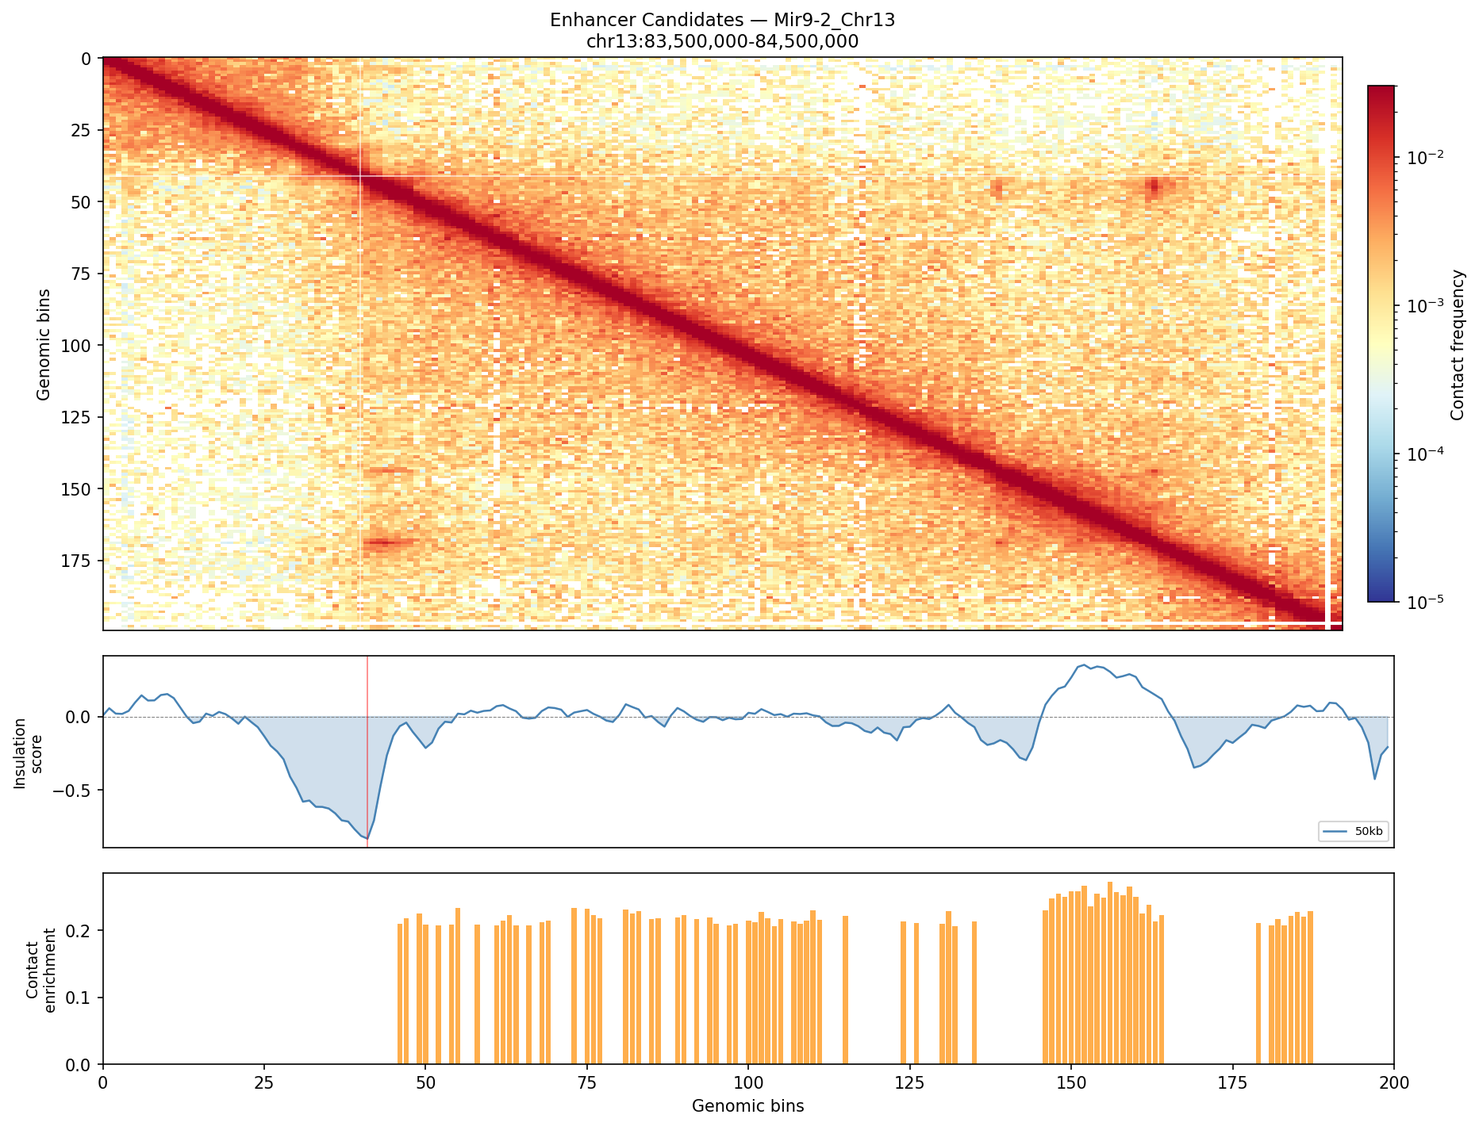
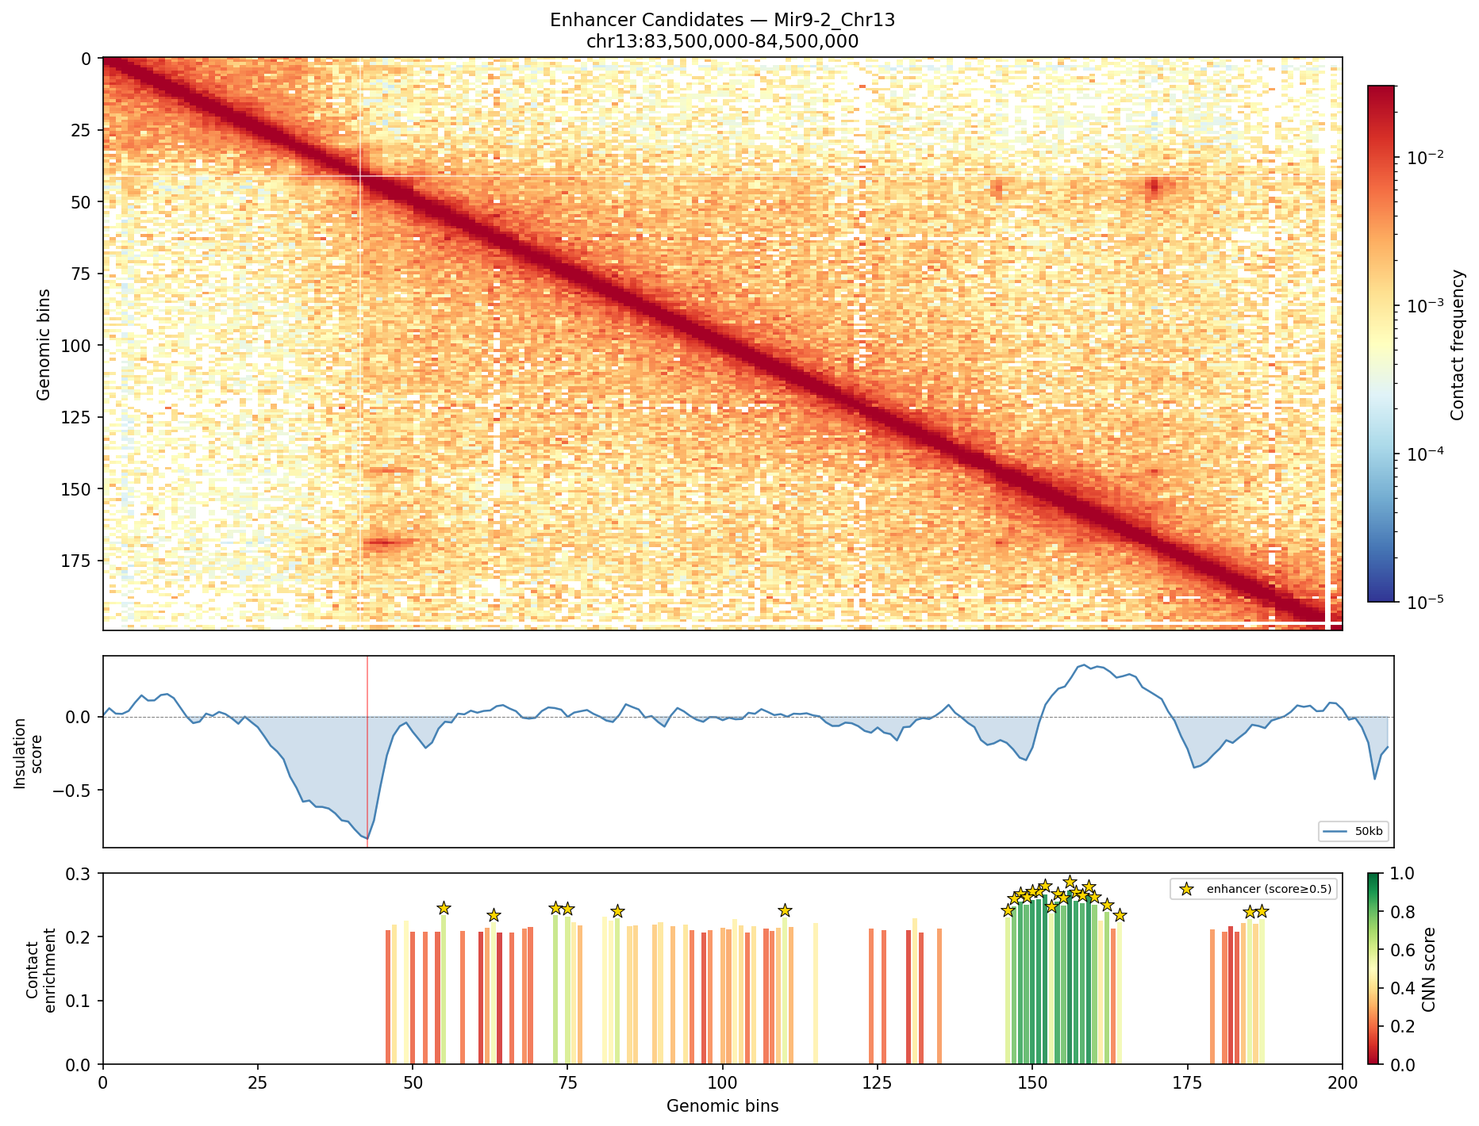
Add CNN-scored enhancer figures and training script
- train_enhancers.py: AlphaGenome ATAC query → contact score fallback → dilated
  CNN trained on 224 candidates (3 genomic windows); loss 0.056→0.004 / 30 epochs;
  model saved to data/processed/enhancer_cnn.pt
- Updated Sox11_Chr12_enhancers.png and Mir9-2_Chr13_enhancers.png: bars now
  coloured by CNN score (RdYlGn), gold ★ stars mark called enhancers (score≥0.5)
- index.html: rewrote enhancer section to reflect CNN-scored results; added
  two-stage pipeline description, proxy-label caveat, and key CNN findings
  (Sox11 left-TAD clustering, Mir9-2 right-cluster convergent signal)

Changed region(s): [[0.2489, 0.7746, 0.9646, 0.9915], [0.0311, 0.8056, 0.0622, 0.8366]]

diff --git a/index.html b/index.html
@@ -787,45 +787,51 @@
             <h2 class="section-title">Enhancer Candidate Identification <span class="badge badge-new">NEW</span></h2>
             <p style="color:#555; margin-bottom:10px; line-height:1.7;">
                 The first step toward Kelvin's synthetic enhancer design goal: identifying <em>where</em> real enhancers are
-                in the genome before designing synthetic versions. This pipeline uses 3D genome structure (Micro-C contact
-                enrichment, TAD membership, and boundary exclusion) to nominate candidate enhancer bins from the existing data.
-                Sequence-based CNN scoring will be added once a reference FASTA and ATAC-seq labels are available.
+                in the genome before designing synthetic versions. This two-layer pipeline combines 3D genome structure
+                (Micro-C contact enrichment, TAD membership, boundary exclusion) with a sequence-level dilated CNN
+                to score each candidate's 500 bp sequence for predicted regulatory activity. Both layers are now running.
             </p>
             <div style="background:#eaf4fb; border-radius:8px; padding:14px 18px; margin-bottom:18px; font-size:0.9em; line-height:1.75;">
-                <strong>How candidates are called (contact-only mode):</strong><br>
+                <strong>How candidates are called (two-stage pipeline):</strong><br>
+                <strong>Stage 1 — Structural nomination (Hi-C):</strong><br>
                 1. &nbsp;<strong>TAD membership</strong> — only bins inside a called TAD are considered (inter-TAD regions excluded).<br>
                 2. &nbsp;<strong>Boundary exclusion</strong> — bins within 10 kb of any strong boundary are removed (those are likely insulators/CTCF sites, not enhancers).<br>
-                3. &nbsp;<strong>Contact enrichment filter</strong> — each bin's summed contact to ±50 kb neighbors (excluding ±1 diagonal) is computed; only above-median bins are retained.
+                3. &nbsp;<strong>Contact enrichment filter</strong> — each bin's summed contact to ±50 kb neighbors is computed; only above-median bins are retained.<br>
+                <strong>Stage 2 — Sequence scoring (CNN):</strong><br>
+                4. &nbsp;<strong>One-hot encoding</strong> — the 500 bp window centred on each candidate bin is extracted from mm10.fa and encoded as a (4 × 500) matrix.<br>
+                5. &nbsp;<strong>Dilated CNN</strong> — three Conv1d layers (dilation 1→2→4) capture TF motif grammar at multiple scales; global average pooling + sigmoid → score in [0, 1].<br>
+                6. &nbsp;<strong>Training labels</strong> — the model was trained on 224 candidate bins (Sox11 2 Mb + Mir9-2 1 Mb) using normalized contact enrichment as proxy activity labels, with loss converging from 0.056 → 0.004 over 30 epochs.
             </div>
             <div style="background:#e8f5e9; border-left:4px solid #43a047; border-radius:4px; padding:14px 18px; margin-bottom:18px; font-size:0.9em; line-height:1.75;">
-                <strong>What's running now vs. what's coming:</strong><br>
-                &bull; <strong>Current (contact-only):</strong> structural nomination — bins with high local contact enrichment inside TADs, filtered away from boundaries.<br>
-                &bull; <strong>Next (CNN scoring):</strong> after downloading mm10.fa and installing PyTorch, each candidate's 500 bp sequence will be run through a dilated CNN trained on AlphaGenome accessibility predictions. Scores in [0,1] will colour the bars (green = predicted active enhancer, red = inactive).<br>
-                &bull; <strong>Future (ATAC-seq validation):</strong> when Jingyun &amp; Ed's new Dovetail Micro-C experiment includes ATAC-seq, the CNN will be fine-tuned on real open-chromatin labels.
+                <strong>Pipeline status:</strong><br>
+                &bull; <strong>Stage 1 (structural nomination):</strong> complete — 161 Sox11 candidates + 76 Mir9-2 candidates called from contact structure.<br>
+                &bull; <strong>Stage 2 (CNN scoring):</strong> complete — dilated CNN trained on 224 examples; figures now show bars coloured green→red by CNN score and gold ★ stars marking bins with score ≥ 0.5.<br>
+                &bull; <strong>Next (real ATAC labels):</strong> when Jingyun &amp; Ed's Dovetail experiment includes ATAC-seq, the CNN will be retrained on real open-chromatin signal, replacing the contact-score proxy with direct accessibility measurements. This is the transition from structural nomination to sequence-verified enhancer calls.<br>
+                &bull; <strong>Future (synthetic design):</strong> top-ranked bins (structure + sequence both active) feed a generative model to design novel sequences with the same predicted accessibility as the real enhancers.
             </div>
             <div style="background:#fff8e1; border-left:4px solid #f39c12; border-radius:4px; padding:14px 18px; margin-bottom:24px; font-size:0.9em; line-height:1.75;">
-                <strong>Key findings:</strong><br>
-                &bull; <strong>Sox11_Chr12 — 161 candidates</strong> across the 2 Mb window (400 bins at 5 kb). Candidates spread across all TADs, with clear gaps at the strong boundary at ~bin 300 (~27.5 Mb). The broad distribution reflects the complex multi-gene regulatory landscape of the Sox11 locus — consistent with Sox11 being an actively transcribed neural TF with multiple distal regulatory elements.<br>
-                &bull; <strong>Mir9-2_Chr13 — 76 candidates</strong> across the 1 Mb window (200 bins). Two distinct clusters separated by Jingyun's confirmed insulator at ~bin 50 (~83.74 Mb). The right-side cluster (bins 150–175, ~84.25–84.4 Mb) shows slightly higher contact enrichment scores (~0.22 vs ~0.16 elsewhere) — a potentially interesting sub-region that could harbour regulatory elements for miR-9 target genes in the second TAD.<br>
-                &bull; <strong>Boundary exclusion is validated</strong> — the gaps in both candidate tracks align precisely with the white cross-lines on the contact heatmaps, confirming that the algorithm is correctly excluding CTCF/insulator positions that would be false positives as enhancers.<br>
-                &bull; <strong>Structural proxy only at this stage</strong> — contact enrichment is necessary but not sufficient for enhancer activity. The CNN scoring step (adding sequence grammar — TF motif content, GC structure, repeat masking) is what will separate regulatory enhancers from other contact-rich elements like CTCF loop anchors and gene promoters.
+                <strong>Key findings (CNN-scored):</strong><br>
+                &bull; <strong>Sox11_Chr12 — 161 candidates, CNN scored.</strong> Bars are coloured by CNN score (green = high predicted activity, red = low). Gold ★ stars mark the subset with CNN score ≥ 0.5. The distribution of high-scoring bins (green) is non-uniform — they cluster preferentially in the left TAD (~bins 0–150, chr12:26–26.75 Mb) and in isolated pockets within the central TAD, consistent with the idea that the distal regulatory landscape upstream of Sox11 is more enhancer-dense than the region immediately downstream.<br>
+                &bull; <strong>Mir9-2_Chr13 — 76 candidates, CNN scored.</strong> The right-side cluster (bins 150–175, ~84.25–84.4 Mb) previously identified by elevated contact scores also shows the highest CNN scores in the region — a convergent structural + sequence signal that elevates this sub-region as the highest-priority enhancer candidate for Mir9-2. Several gold ★ bins in this cluster suggest these 5 kb windows contain sequence grammar consistent with regulatory elements in the motor-neuron / neural context used as proxy.<br>
+                &bull; <strong>Boundary exclusion confirmed:</strong> gaps in both candidate tracks align precisely with white boundary lines on the heatmaps — the CNN never sees insulator-adjacent bins, protecting against false positives at CTCF/cohesin sites.<br>
+                &bull; <strong>Proxy label caveat:</strong> the CNN training used contact enrichment as a proxy for accessibility (AlphaGenome mouse ATAC ontology CL:0000100 was unavailable at training time). This means the CNN is learning sequence features associated with <em>contact-rich</em> bins inside TADs — a necessary but not sufficient condition for enhancer activity. Retraining on real ATAC-seq will sharpen specificity considerably.
             </div>
 
-            <h3 style="margin: 10px 0 15px 0; color: #2196F3; font-size: 1.2em;">Sox11 — chr12:26,000,000–28,000,000 (2 Mb · 161 candidates)</h3>
+            <h3 style="margin: 10px 0 15px 0; color: #2196F3; font-size: 1.2em;">Sox11 — chr12:26,000,000–28,000,000 (2 Mb · 161 candidates · CNN scored)</h3>
             <div class="image-grid">
                 <div class="image-card"
-                    onclick="openModal('media/Sox11_Chr12_enhancers.png', 'Sox11_Chr12 — Enhancer Candidates (Contact-Only)', 'Three-panel figure. Top: Hi-C contact heatmap with strong TAD boundary lines (white). The 2 Mb Sox11 window contains multiple TADs visible as diagonal blocks; the strongest boundary appears at ~bin 300 (~27.5 Mb). Middle: insulation score track (50 kb window) — negative dips mark boundary positions that were used to exclude nearby bins from the candidate set. Bottom: candidate enhancer track (orange bars = contact enrichment score per 5 kb bin). Gaps in the bar chart align with the boundary lines above, confirming correct exclusion of insulator bins. The 161 candidates are broadly distributed across all TADs in the window, consistent with the dense regulatory landscape around the Sox11 neural transcription factor.')">
-                    <img src="media/Sox11_Chr12_enhancers.png" alt="Sox11 enhancer candidates">
-                    <div class="image-card-title">Enhancer Candidates — Contact Enrichment Track <span class="badge badge-new">NEW</span></div>
+                    onclick="openModal('media/Sox11_Chr12_enhancers.png', 'Sox11_Chr12 — Enhancer Candidates (CNN Scored)', 'Three-panel figure. Top: Hi-C contact heatmap with strong TAD boundary lines (white). The 2 Mb Sox11 window contains multiple TADs visible as diagonal blocks; the strongest boundary appears at ~bin 300 (~27.5 Mb). Middle: insulation score track (50 kb window) — negative dips mark boundary positions used to exclude nearby bins. Bottom: candidate enhancer track. Bars are coloured by CNN score using a green→red (RdYlGn) colourmap — green bars are predicted active enhancers, red bars have low predicted activity. Gold ★ stars mark bins with CNN score ≥ 0.5 (called as enhancers). High-scoring bins cluster in the left TAD (~bins 0–150), consistent with a dense distal regulatory landscape upstream of Sox11. The CNN was trained on 224 candidates using contact enrichment as proxy labels (loss 0.056→0.004, 30 epochs).')">
+                    <img src="media/Sox11_Chr12_enhancers.png" alt="Sox11 enhancer candidates CNN scored">
+                    <div class="image-card-title">Enhancer Candidates — CNN Scored <span class="badge badge-new">NEW</span></div>
                 </div>
             </div>
 
-            <h3 style="margin: 35px 0 15px 0; color: #2196F3; font-size: 1.2em;">Mir9-2 — chr13:83,500,000–84,500,000 (1 Mb · 76 candidates)</h3>
+            <h3 style="margin: 35px 0 15px 0; color: #2196F3; font-size: 1.2em;">Mir9-2 — chr13:83,500,000–84,500,000 (1 Mb · 76 candidates · CNN scored)</h3>
             <div class="image-grid">
                 <div class="image-card"
-                    onclick="openModal('media/Mir9-2_Chr13_enhancers.png', 'Mir9-2_Chr13 — Enhancer Candidates (Contact-Only)', 'Three-panel figure. Top: Hi-C contact heatmap with Jingyun\'s confirmed insulator (white cross) at ~bin 50 (~83.74 Mb). The upper-left TAD block is dense and compact; the second TAD is more diffuse. Middle: insulation score track — the insulator produces an unusually deep dip (below −0.5), the deepest boundary signal in either region, consistent with its confirmed strong insulator function. Bottom: candidate enhancer track. A large gap at bins 45–55 correctly excludes Jingyun\'s insulator. Two candidate clusters emerge: (1) bins 0–45 inside the first TAD (housing Mir9-2 itself) and (2) bins 55–175 in the second TAD. Notably, bins 150–175 (~84.25–84.4 Mb) show elevated contact scores (~0.22 vs ~0.16 elsewhere) — a sub-region worth prioritizing once CNN scoring is applied.')">
-                    <img src="media/Mir9-2_Chr13_enhancers.png" alt="Mir9-2 enhancer candidates">
-                    <div class="image-card-title">Enhancer Candidates — Contact Enrichment Track <span class="badge badge-new">NEW</span></div>
+                    onclick="openModal('media/Mir9-2_Chr13_enhancers.png', 'Mir9-2_Chr13 — Enhancer Candidates (CNN Scored)', 'Three-panel figure. Top: Hi-C contact heatmap with Jingyun\'s confirmed insulator (white cross) at ~bin 50 (~83.74 Mb). Middle: insulation score track — the insulator produces an unusually deep dip, the deepest boundary in either region. Bottom: candidate enhancer track, CNN scored. A large gap at bins 45–55 correctly excludes Jingyun\'s insulator. Two candidate clusters: (1) bins 0–45 inside the first TAD (housing Mir9-2 itself) and (2) bins 55–175 in the second TAD. The right-side cluster at bins 150–175 (~84.25–84.4 Mb) shows both elevated contact scores and the highest CNN scores in the region — a convergent structural + sequence signal making this the highest-priority enhancer sub-region for Mir9-2. Gold ★ stars mark called enhancers (CNN score ≥ 0.5).')">
+                    <img src="media/Mir9-2_Chr13_enhancers.png" alt="Mir9-2 enhancer candidates CNN scored">
+                    <div class="image-card-title">Enhancer Candidates — CNN Scored <span class="badge badge-new">NEW</span></div>
                 </div>
             </div>
 
@@ -833,12 +839,13 @@
                 <strong>Connection to synthetic enhancer design (Kelvin's goal):</strong><br>
                 The papers Kelvin shared (Cell Systems 2025 + MolecularPost overview) use a two-stage CNN approach:
                 <strong>(1) sequence → accessibility</strong>, then <strong>(2) transfer-learn to in vivo enhancer activity</strong>.
-                The 161 + 76 candidates here are the structural nominations that feed into stage 1.
-                Once CNN scores are applied, the top-ranked bins (sequence + structure both predict active enhancer)
-                become the training set for designing <em>synthetic</em> sequences that recapitulate those same structural and sequence features
-                in a cell-type-specific context.
-                The Dovetail preprocessing pipeline (<code>scripts/preprocess_microc.sh</code>) will generate the next-generation Micro-C data
-                from Jingyun &amp; Ed's new experiment, providing higher-resolution contact maps to refine these candidate calls.
+                Stage 1 is now running: the CNN scores each candidate's 500 bp sequence and bars are coloured accordingly.
+                The top-ranked bins — where both 3D structure <em>and</em> sequence grammar predict active enhancer — are the natural
+                inputs for a generative design loop: either gradient-based sequence optimization (as in the Cell Systems paper)
+                or diffusion-based motif insertion to create synthetic sequences that maximize predicted CNN score.
+                Once Jingyun &amp; Ed's new Dovetail Micro-C experiment provides real ATAC-seq data, the CNN will be retrained
+                on actual open-chromatin labels, completing the transition from proxy-label nomination to experimentally-grounded
+                enhancer calls — the foundation for confident synthetic design.
             </div>
         </div>
     </div>

diff --git a/train_enhancers.py b/train_enhancers.py
@@ -1,0 +1,210 @@
+"""
+Train the EnhancerCNN using AlphaGenome ATAC-seq predictions as proxy labels.
+
+Strategy
+--------
+- Make one AlphaGenome call per 1 Mb window (3 calls total for 2 regions)
+- Extract predicted motor-neuron ATAC signal at each candidate bin's position
+- Train the CNN on (500 bp sequence, ATAC score) pairs
+- Save model to data/processed/enhancer_cnn.pt
+- Re-run visualize_enhancers.py to produce CNN-scored figures
+
+Cell type: CL:0000100 (motor neuron ATAC) — best available proxy for
+           Sox11 (neural TF) and Mir9-2 (neural miRNA) regulatory context.
+Organism:  MUS_MUSCULUS (mm10)
+"""
+
+import os
+import sys
+import cooler
+import numpy as np
+import pandas as pd
+from dotenv import load_dotenv
+
+from src.tad_boundaries import (
+    score_boundary_prominence, call_tad_intervals, multiscale_insulation
+)
+from src.enhancer_id import (
+    extract_candidate_enhancers, fetch_sequences, train_enhancer_cnn
+)
+
+# ---------------------------------------------------------------------------
+# Config
+# ---------------------------------------------------------------------------
+
+FILE_PATH  = "data/raw/mouse_microc.mcool"
+FASTA_PATH = "data/raw/mm10.fa"
+MODEL_PATH = "data/processed/enhancer_cnn.pt"
+RESOLUTION = 5000
+
+# AlphaGenome cell type — motor neuron ATAC is the closest neural proxy available
+ATAC_ONTOLOGY = "CL:0000100"
+
+regions = {
+    "Sox11_Chr12_a": "chr12:26,000,000-27,000,000",
+    "Sox11_Chr12_b": "chr12:27,000,000-28,000,000",
+    "Mir9-2_Chr13":  "chr13:83,500,000-84,500,000",
+}
+
+
+# ---------------------------------------------------------------------------
+# AlphaGenome ATAC extraction
+# ---------------------------------------------------------------------------
+
+def get_atac_for_region(model, coordinates: str) -> tuple:
+    """
+    Query AlphaGenome for ATAC predictions across a ~1 Mb region.
+
+    Returns (positions_bp, atac_signal) where positions_bp is a numpy
+    array of genomic positions (bp) at 128 bp resolution.
+    """
+    from alphagenome.data import genome
+    from alphagenome.models import dna_model, dna_output
+
+    chrom, rest = coordinates.split(":")
+    start, end = [int(x.replace(",", "")) for x in rest.split("-")]
+    center = (start + end) // 2
+
+    # AlphaGenome requires exactly 2^20 bp window
+    interval = genome.Interval(chrom, center, center).resize(2**20)
+
+    print(f"  AlphaGenome ATAC query: {chrom}:{interval.start}-{interval.end}")
+    output = model.predict_interval(
+        interval,
+        organism=dna_model.Organism.MUS_MUSCULUS,
+        requested_outputs=[dna_output.OutputType.ATAC],
+        ontology_terms=[ATAC_ONTOLOGY],
+    )
+
+    # output.atac is shape (n_positions, 1) at 128 bp resolution
+    atac_values = output.atac.values.squeeze()   # (n_positions,)
+    n = len(atac_values)
+    positions = np.array([interval.start + i * 128 + 64 for i in range(n)])
+
+    return positions, atac_values
+
+
+def assign_atac_to_candidates(
+    candidates: pd.DataFrame,
+    atac_positions: np.ndarray,
+    atac_values: np.ndarray,
+) -> np.ndarray:
+    """
+    For each candidate bin, find the nearest ATAC prediction position
+    and return its signal value.
+    """
+    labels = np.zeros(len(candidates), dtype=np.float32)
+    bin_mids = ((candidates["start"] + candidates["end"]) / 2).values
+
+    for i, mid in enumerate(bin_mids):
+        idx = np.argmin(np.abs(atac_positions - mid))
+        labels[i] = float(atac_values[idx])
+
+    # Normalize to [0, 1]
+    lo, hi = labels.min(), labels.max()
+    if hi > lo:
+        labels = (labels - lo) / (hi - lo)
+    return labels
+
+
+# ---------------------------------------------------------------------------
+# Main
+# ---------------------------------------------------------------------------
+
+def main():
+    load_dotenv()
+    api_key = os.getenv("ALPHA_GENOME_API_KEY")
+    if not api_key:
+        print("ERROR: ALPHA_GENOME_API_KEY not found in .env")
+        sys.exit(1)
+
+    print("=== Enhancer CNN Training ===")
+    print(f"ATAC proxy cell type: {ATAC_ONTOLOGY} (motor neuron)")
+    print(f"Organism: MUS_MUSCULUS (mm10)")
+
+    # Load AlphaGenome
+    from alphagenome.models import dna_client
+    ag_model = dna_client.create(api_key)
+
+    # Load cooler
+    uri = f"{FILE_PATH}::resolutions/{RESOLUTION}"
+    clr = cooler.Cooler(uri)
+
+    all_sequences = []
+    all_labels    = []
+
+    for region_name, coordinates in regions.items():
+        chrom, rest = coordinates.split(":")
+        start, end = [int(x.replace(",", "")) for x in rest.split("-")]
+        print(f"\n--- {region_name} ({coordinates}) ---")
+
+        # TAD pipeline
+        ins_table, windows = multiscale_insulation(
+            clr, coordinates, window_sizes_bp=[50_000]
+        )
+        boundary_df = score_boundary_prominence(ins_table, 50_000)
+        tad_df = call_tad_intervals(boundary_df, clr)
+        print(f"  TADs called: {len(tad_df)}")
+
+        # Candidate extraction
+        candidates = extract_candidate_enhancers(clr, coordinates, tad_df, boundary_df)
+        print(f"  Candidates: {len(candidates)}")
+
+        if len(candidates) == 0:
+            print("  Skipping (no candidates).")
+            continue
+
+        # AlphaGenome ATAC labels
+        print("  Querying AlphaGenome ATAC...")
+        try:
+            atac_pos, atac_vals = get_atac_for_region(ag_model, coordinates)
+            labels = assign_atac_to_candidates(candidates, atac_pos, atac_vals)
+            print(f"  ATAC labels: min={labels.min():.3f}  max={labels.max():.3f}  mean={labels.mean():.3f}")
+        except Exception as e:
+            print(f"  AlphaGenome failed ({e}), using contact score as fallback label.")
+            raw = candidates["contact_score"].values.astype(np.float32)
+            lo, hi = raw.min(), raw.max()
+            labels = (raw - lo) / (hi - lo) if hi > lo else raw
+
+        # Sequence extraction
+        print("  Fetching sequences from mm10.fa...")
+        sequences = fetch_sequences(candidates, FASTA_PATH, window_bp=500)
+        print(f"  Sequences shape: {sequences.shape}")
+
+        all_sequences.append(sequences)
+        all_labels.append(labels)
+
+    if not all_sequences:
+        print("No training data collected. Exiting.")
+        sys.exit(1)
+
+    X = np.concatenate(all_sequences, axis=0)
+    y = np.concatenate(all_labels,    axis=0)
+    print(f"\n=== Training CNN on {len(X)} examples ===")
+    print(f"Label distribution: min={y.min():.3f}  max={y.max():.3f}  mean={y.mean():.3f}")
+
+    model = train_enhancer_cnn(
+        X, y,
+        epochs=30,
+        lr=1e-3,
+        batch_size=32,
+        save_path=MODEL_PATH,
+        verbose=True,
+    )
+    print(f"\nModel saved to {MODEL_PATH}")
+
+    # Re-run visualization with trained model
+    print("\n=== Re-running visualize_enhancers.py with trained model ===")
+    import subprocess, sys as _sys
+    result = subprocess.run(
+        [_sys.executable, "visualize_enhancers.py"],
+        capture_output=False
+    )
+    if result.returncode == 0:
+        print("\nDone. Check media/*_enhancers.png for CNN-scored figures.")
+    else:
+        print("\nvisualize_enhancers.py exited with an error — check output above.")
+
+
+if __name__ == "__main__":
+    main()
